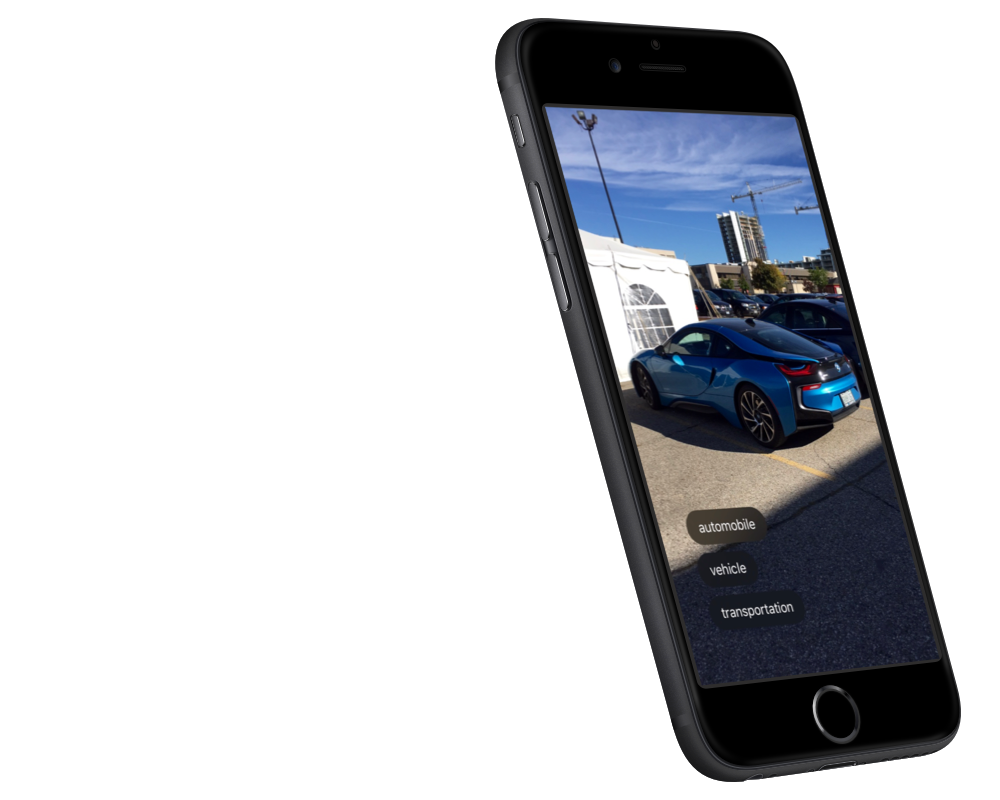
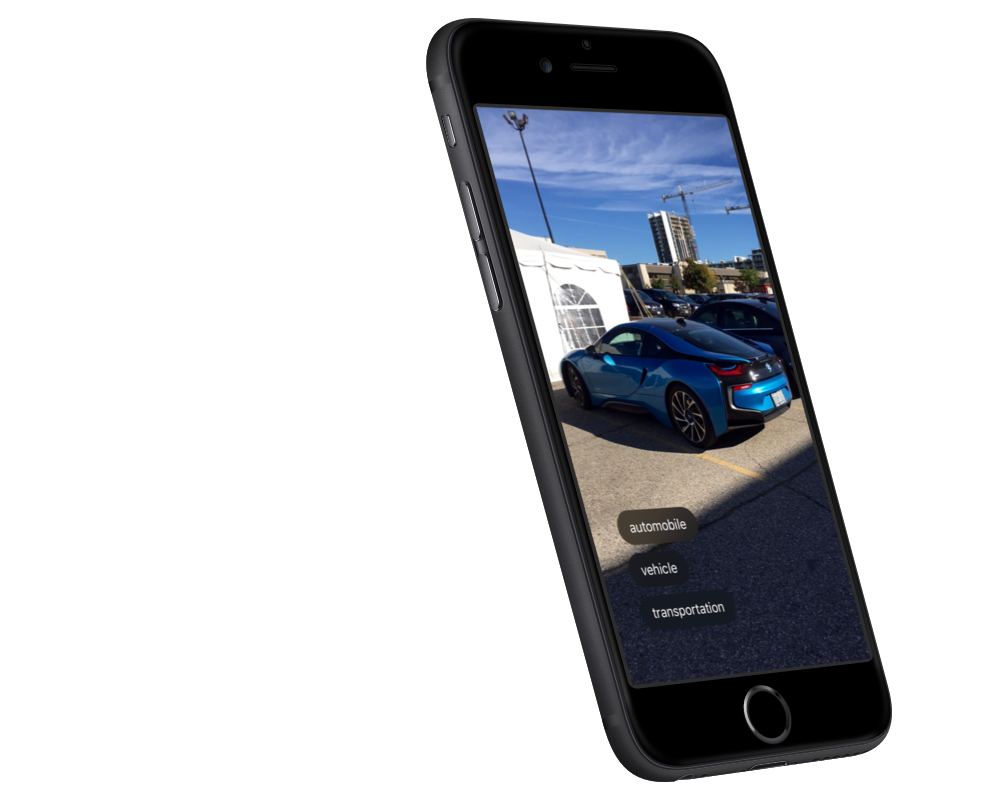
All: Added GitHub link Home: Updated screenshot

Changed region(s): [[0.403, 0.0, 0.961, 1.0]]

diff --git a/index.html b/index.html
@@ -83,10 +83,11 @@
                         <h1>Sunny Chan</h1>
                         <h4><span class="glyphicon glyphicon-map-marker" aria-hidden="true"></span> San Francisco, CA<br>Currently at Eventbrite, Inc.<br>CS at University of Waterloo<br>WWDC 13, 14 and 15 Scholarship winner<br>End goal: Human-Computer Interaction</h4>
                         <p class="social-bar">
-                            <a class="btn-social" type="submit" data-icon="&#xe600;" href="mailto:sunnychan626@me.com" target="_blank"></a>
-                            <a class="btn-social" data-icon="&#xe602;" href="https://ca.linkedin.com/in/sunnychan626" target="_blank"></a>
-                            <a class="btn-social" data-icon="&#xe603;" href="https://twitter.com/sunnychan626" target="_blank"></a>
-                            <a class="btn-social" data-icon="&#xe601;" href="https://instagram.com/sunnychan626" target="_blank"></a>
+                            <a class="btn-social" type="submit" data-icon="&#xe90c;" href="mailto:sunnychan626@me.com" target="_blank"></a>
+                            <a class="btn-social" data-icon="&#xe90a;" href="https://ca.linkedin.com/in/sunnychan626" target="_blank"></a>
+                            <a class="btn-social" type="submit" data-icon="&#xe900;" href="https://github.com/sunnychan626" target="_blank"></a>
+                            <a class="btn-social" data-icon="&#xe907;" href="https://twitter.com/sunnychan626" target="_blank"></a>
+                            <a class="btn-social" data-icon="&#xe911;" href="https://instagram.com/sunnychan626" target="_blank"></a>
                         </p>
                     </div>
                 </div>
@@ -227,10 +228,11 @@
         <div id="footer">
             <div class="container text-center">
                 <p class="social-bar">
-                    <a class="btn-social" data-icon="&#xe600;" href="mailto:sunnychan626@me.com" target="_blank"></a>
-                    <a class="btn-social" data-icon="&#xe602;" href="https://ca.linkedin.com/in/sunnychan626" target="_blank"></a>
-                    <a class="btn-social" data-icon="&#xe603;" href="https://twitter.com/sunnychan626" target="_blank"></a>
-                    <a class="btn-social" data-icon="&#xe601;" href="https://instagram.com/sunnychan626" target="_blank"></a>
+                    <a class="btn-social" type="submit" data-icon="&#xe90c;" href="mailto:sunnychan626@me.com" target="_blank"></a>
+                    <a class="btn-social" data-icon="&#xe90a;" href="https://ca.linkedin.com/in/sunnychan626" target="_blank"></a>
+                    <a class="btn-social" type="submit" data-icon="&#xe900;" href="https://github.com/sunnychan626" target="_blank"></a>
+                    <a class="btn-social" data-icon="&#xe907;" href="https://twitter.com/sunnychan626" target="_blank"></a>
+                    <a class="btn-social" data-icon="&#xe911;" href="https://instagram.com/sunnychan626" target="_blank"></a>
                 </p>
                 <p>&copy; 2016 Sunny Chan</p>
             </div>

diff --git a/photography/index.html b/photography/index.html
@@ -126,10 +126,11 @@
     <div id="footer">
         <div class="container text-center">
             <p class="social-bar">
-                <a class="btn-social" data-icon="&#xe600;" href="mailto:sunnychan626@me.com" target="_blank"></a>
-                <a class="btn-social" data-icon="&#xe602;" href="https://ca.linkedin.com/in/sunnychan626" target="_blank"></a>
-                <a class="btn-social" data-icon="&#xe603;" href="https://twitter.com/sunnychan626" target="_blank"></a>
-                <a class="btn-social" data-icon="&#xe601;" href="https://instagram.com/sunnychan626" target="_blank"></a>
+                <a class="btn-social" type="submit" data-icon="&#xe90c;" href="mailto:sunnychan626@me.com" target="_blank"></a>
+                <a class="btn-social" data-icon="&#xe90a;" href="https://ca.linkedin.com/in/sunnychan626" target="_blank"></a>
+                <a class="btn-social" type="submit" data-icon="&#xe900;" href="https://github.com/sunnychan626" target="_blank"></a>
+                <a class="btn-social" data-icon="&#xe907;" href="https://twitter.com/sunnychan626" target="_blank"></a>
+                <a class="btn-social" data-icon="&#xe911;" href="https://instagram.com/sunnychan626" target="_blank"></a>
             </p>
             <p>&copy; 2016 Sunny Chan</p>
         </div>

diff --git a/resume/index.html b/resume/index.html
@@ -214,10 +214,11 @@
     <div id="footer">
         <div class="container text-center">
             <p class="social-bar">
-                <a class="btn-social" data-icon="&#xe600;" href="mailto:sunnychan626@me.com" target="_blank"></a>
-                <a class="btn-social" data-icon="&#xe602;" href="https://ca.linkedin.com/in/sunnychan626" target="_blank"></a>
-                <a class="btn-social" data-icon="&#xe603;" href="https://twitter.com/sunnychan626" target="_blank"></a>
-                <a class="btn-social" data-icon="&#xe601;" href="https://instagram.com/sunnychan626" target="_blank"></a>
+                <a class="btn-social" type="submit" data-icon="&#xe90c;" href="mailto:sunnychan626@me.com" target="_blank"></a>
+                <a class="btn-social" data-icon="&#xe90a;" href="https://ca.linkedin.com/in/sunnychan626" target="_blank"></a>
+                <a class="btn-social" type="submit" data-icon="&#xe900;" href="https://github.com/sunnychan626" target="_blank"></a>
+                <a class="btn-social" data-icon="&#xe907;" href="https://twitter.com/sunnychan626" target="_blank"></a>
+                <a class="btn-social" data-icon="&#xe911;" href="https://instagram.com/sunnychan626" target="_blank"></a>
             </p>
             <p>&copy; 2016 Sunny Chan</p>
         </div>
